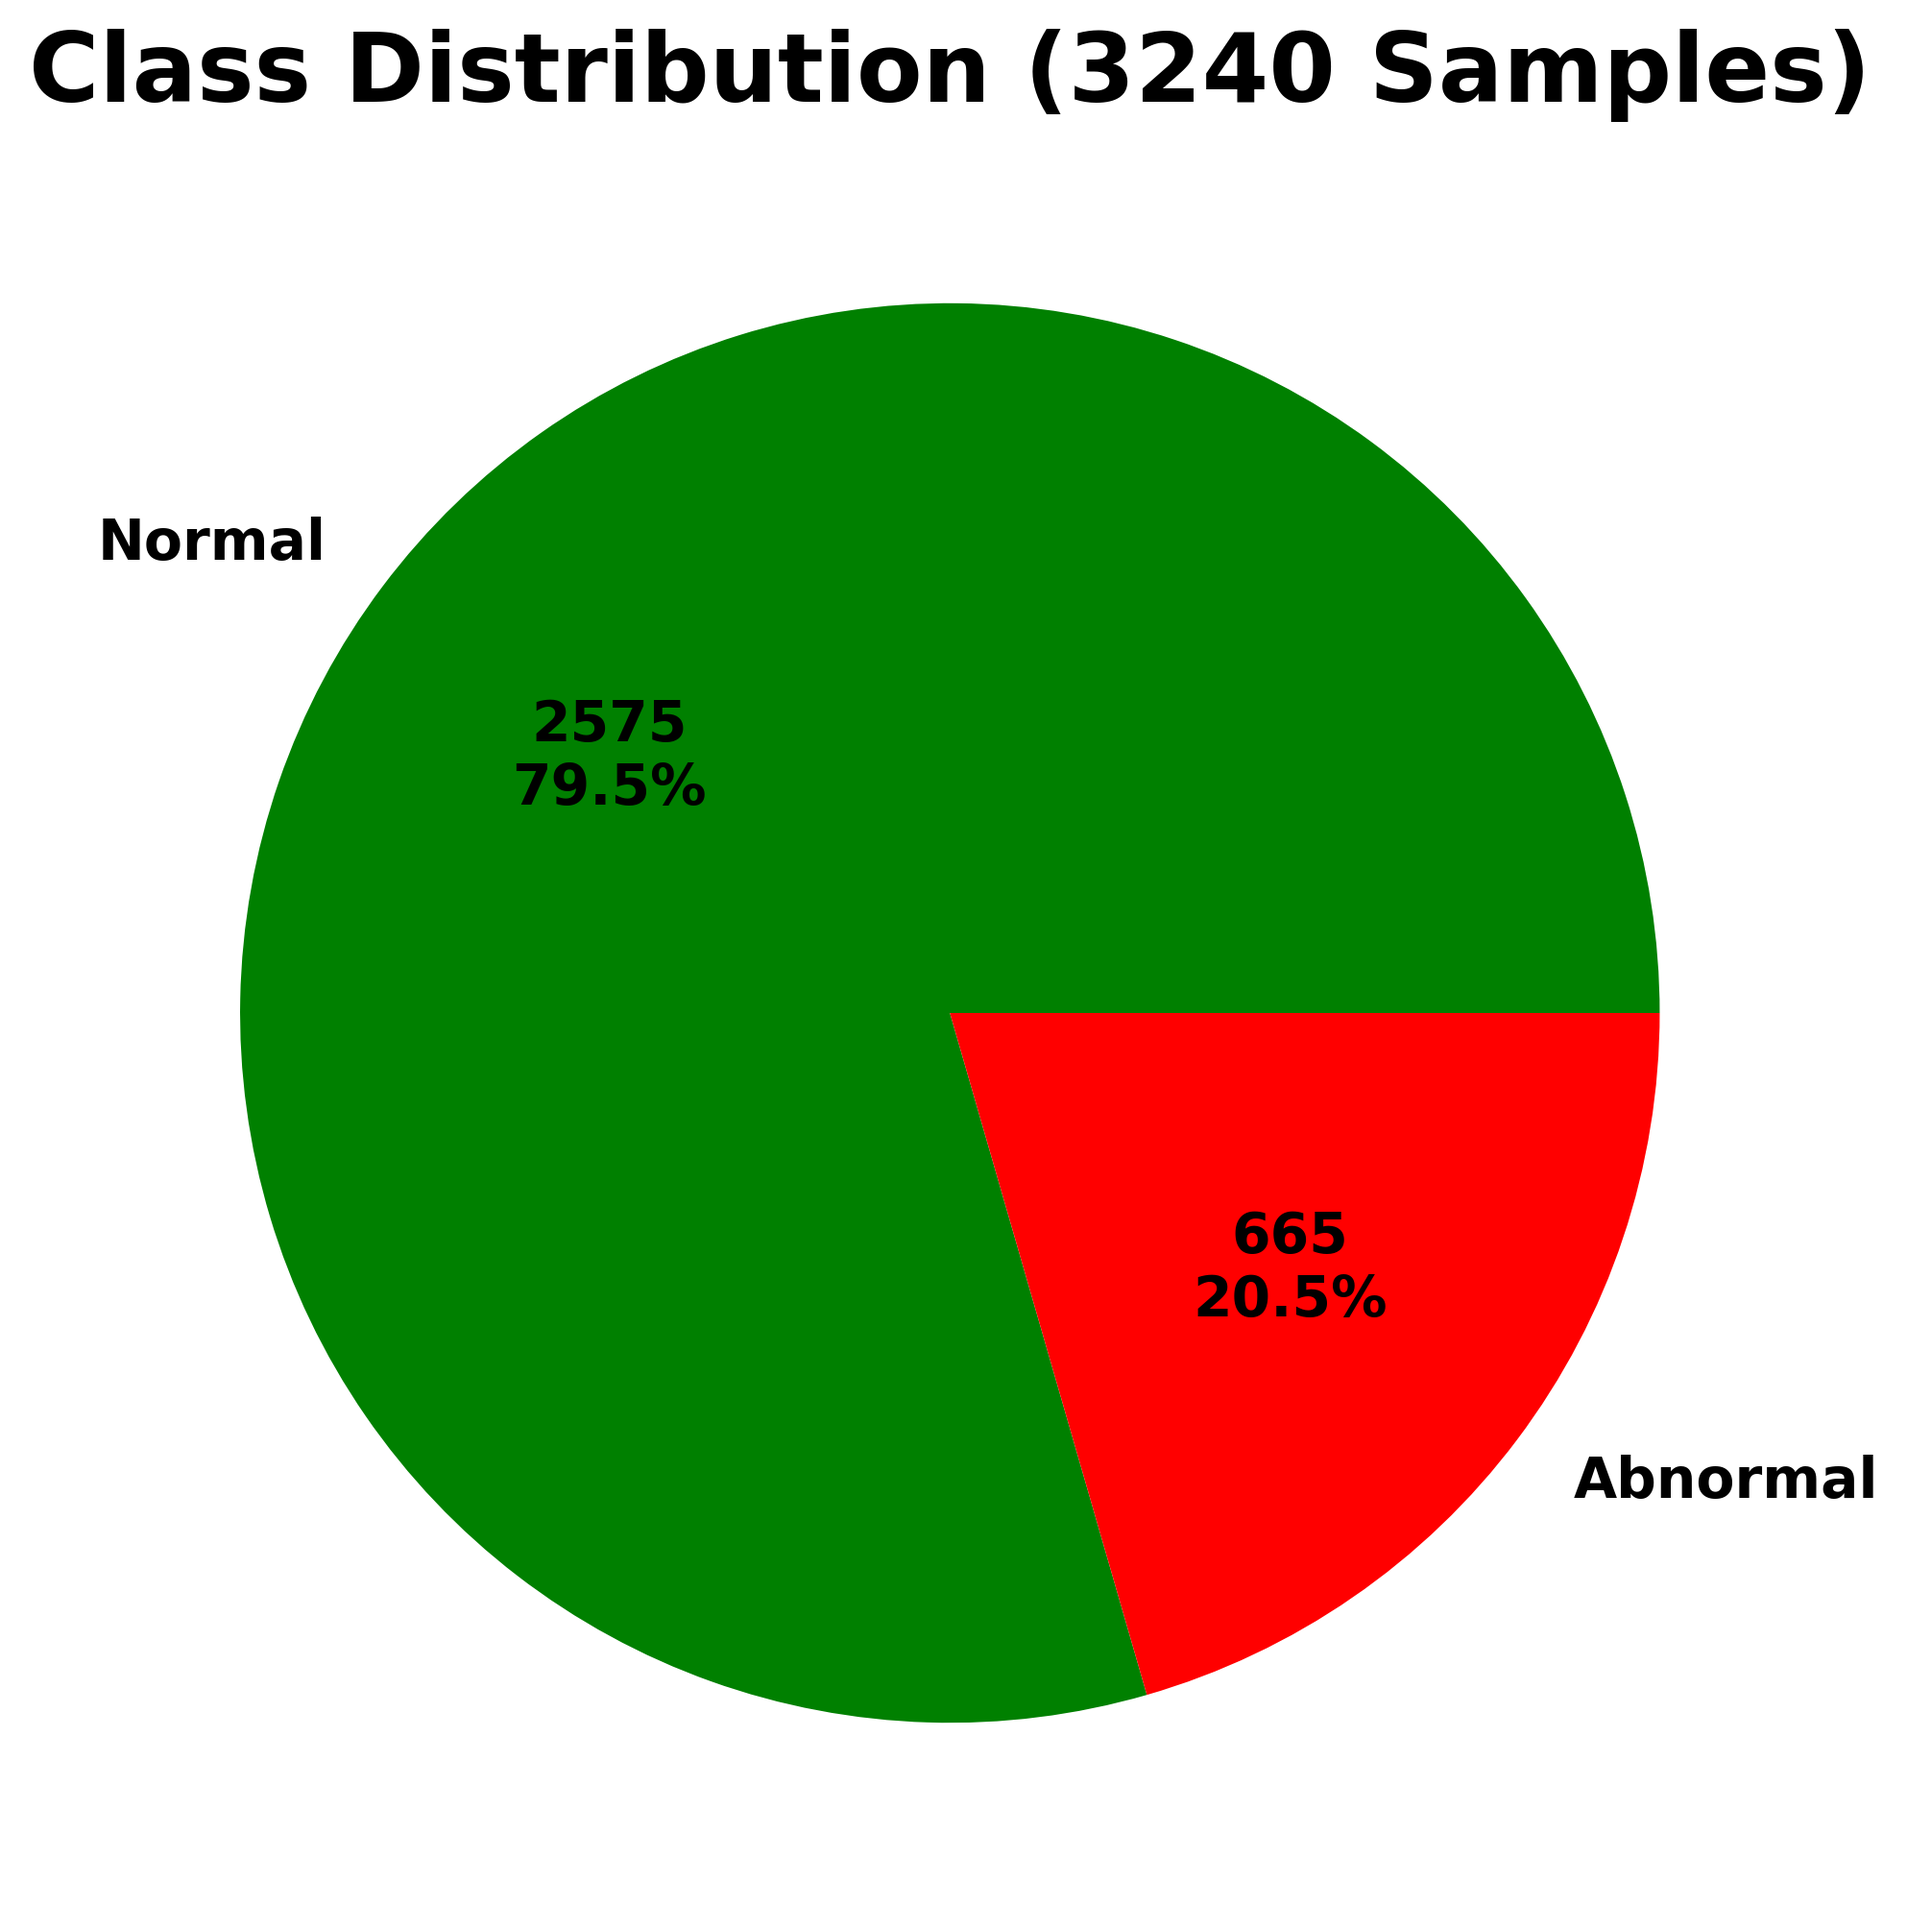
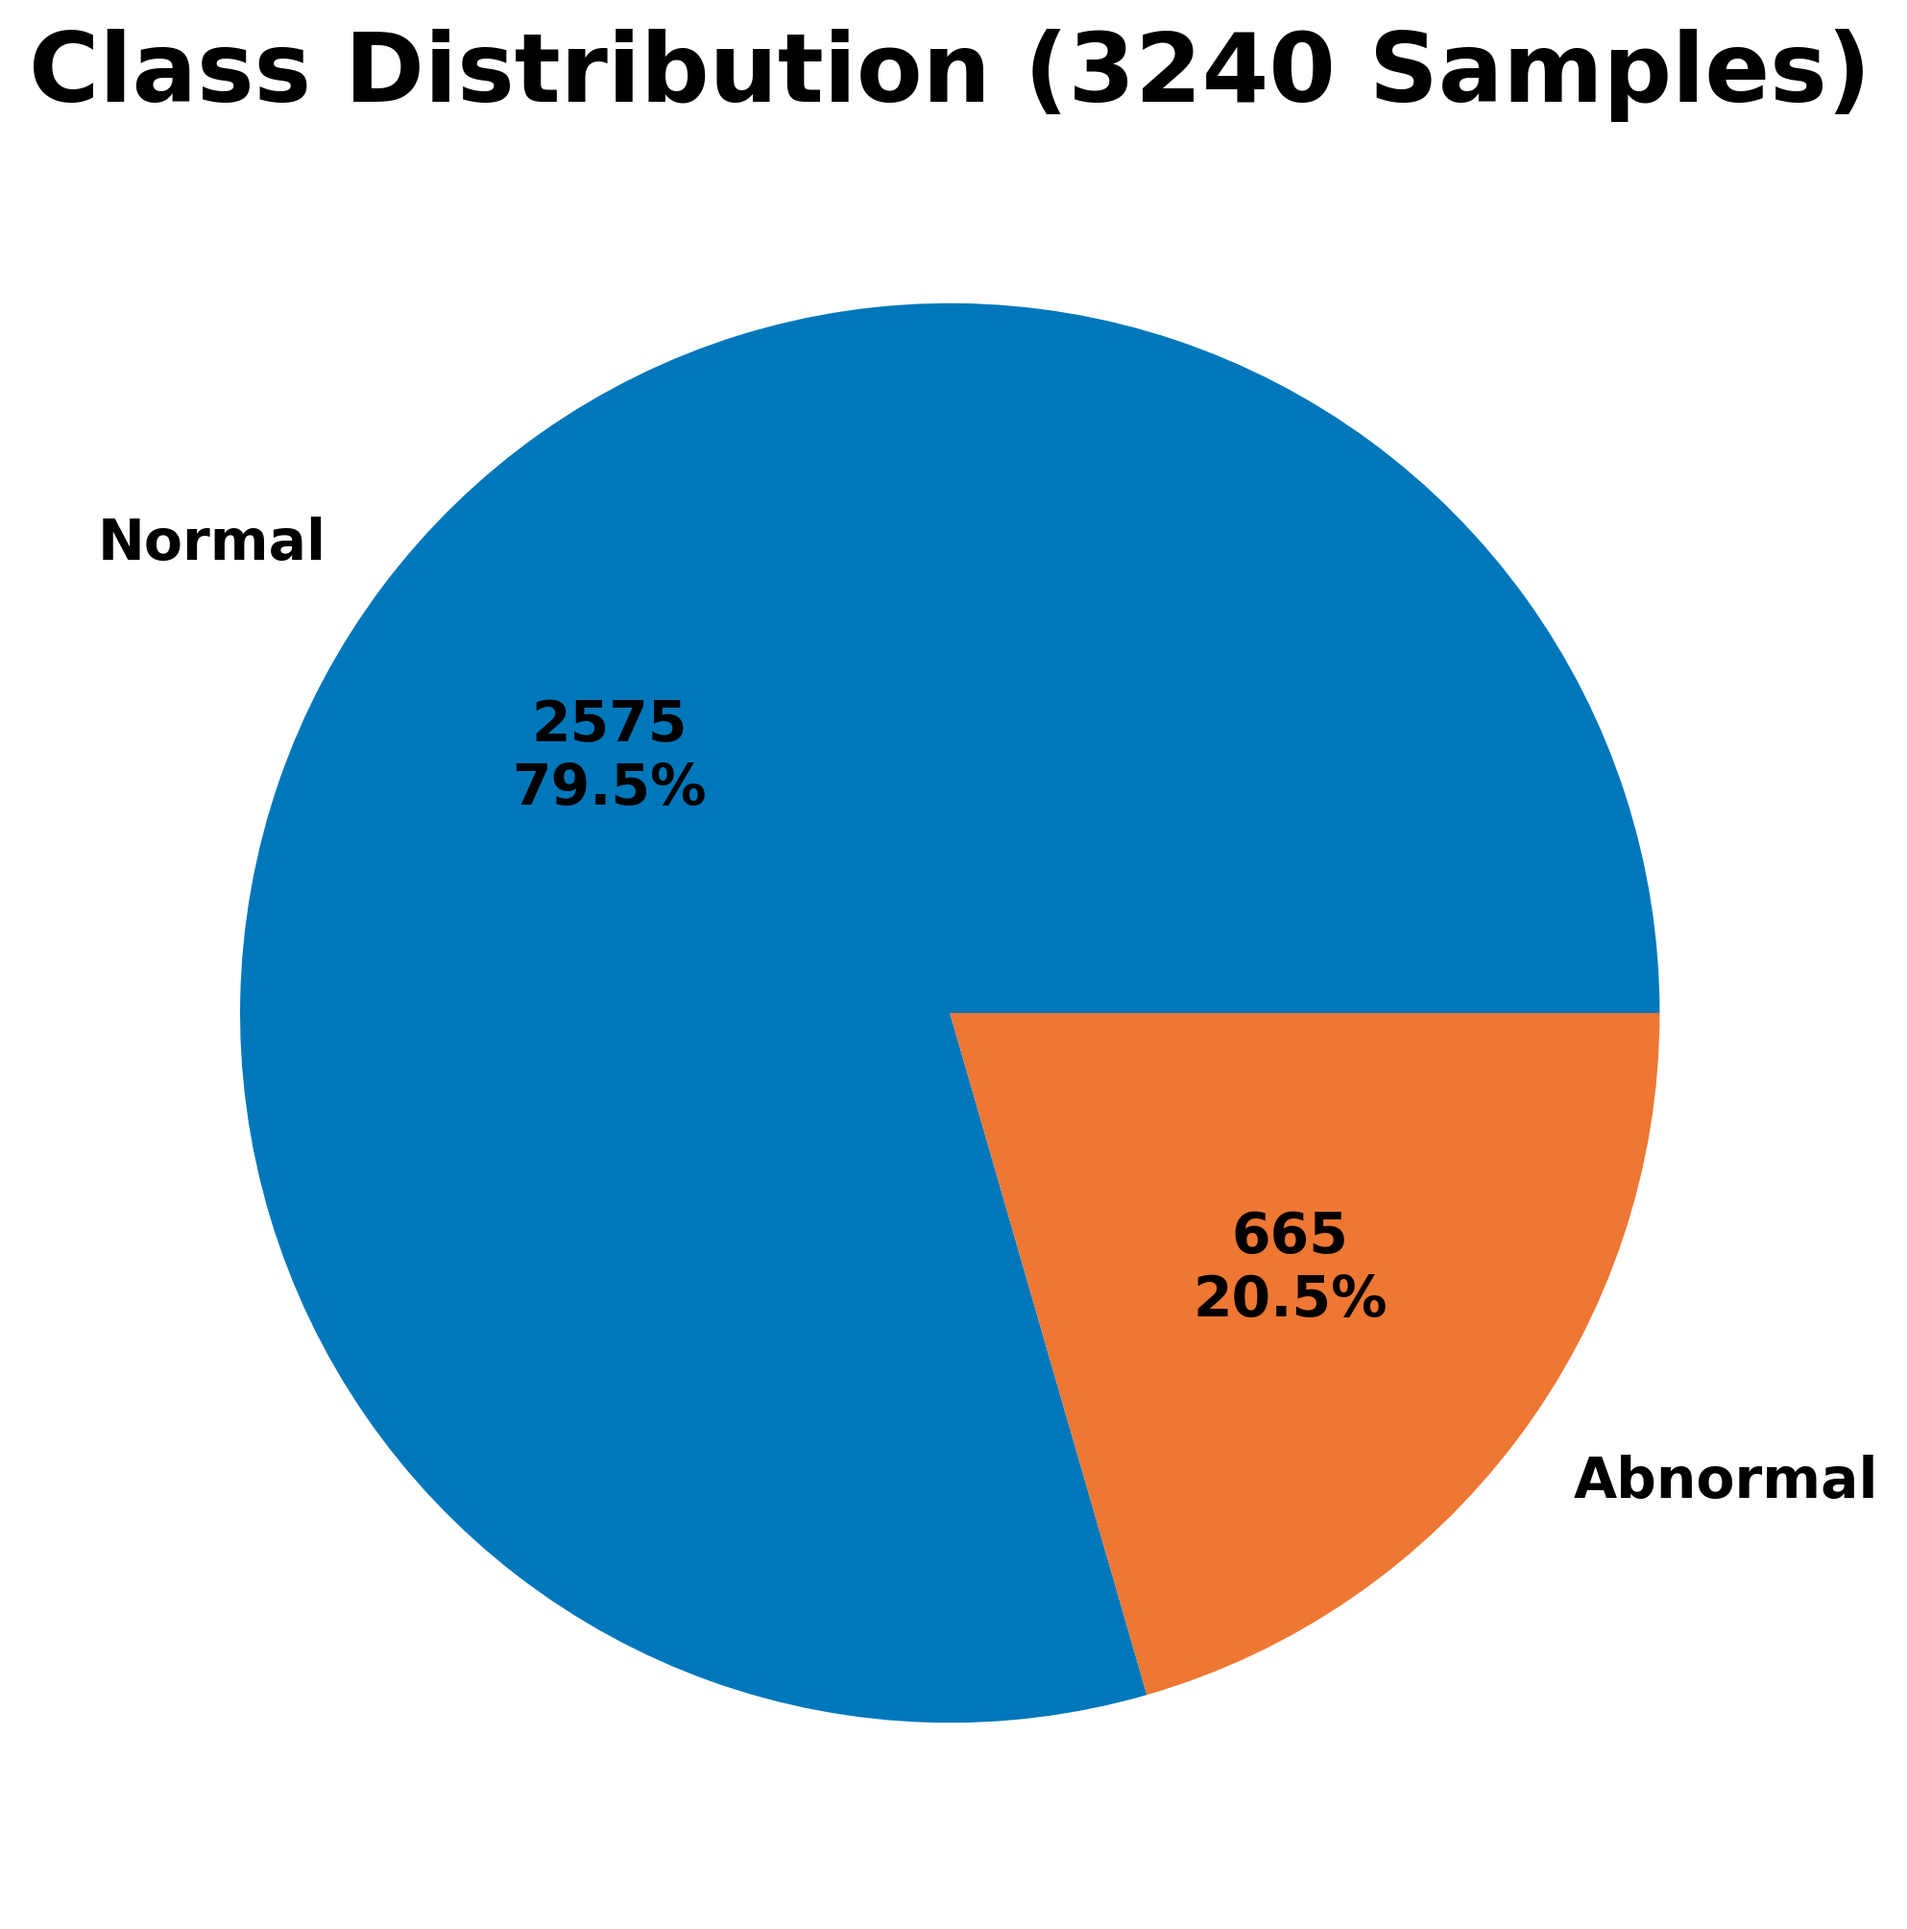
statistics plot

diff --git a/build_dataset.py b/build_dataset.py
@@ -621,7 +621,8 @@ def plot_statistics(dataset: AudioDataset, stats_dir: Path):
 	data = dataset.load_file_list()
 	dataset_name = dataset.__class__.__name__
 	seconds = data[const.META_LENGTH] / dataset.target_samplerate
-	colors = ["green", "red"]
+	colors = ["#0077BB", "#EE7733"]
+
 
 	# Einzelne Plots
 	fig, ax = plt.subplots(figsize=(10, 8))
